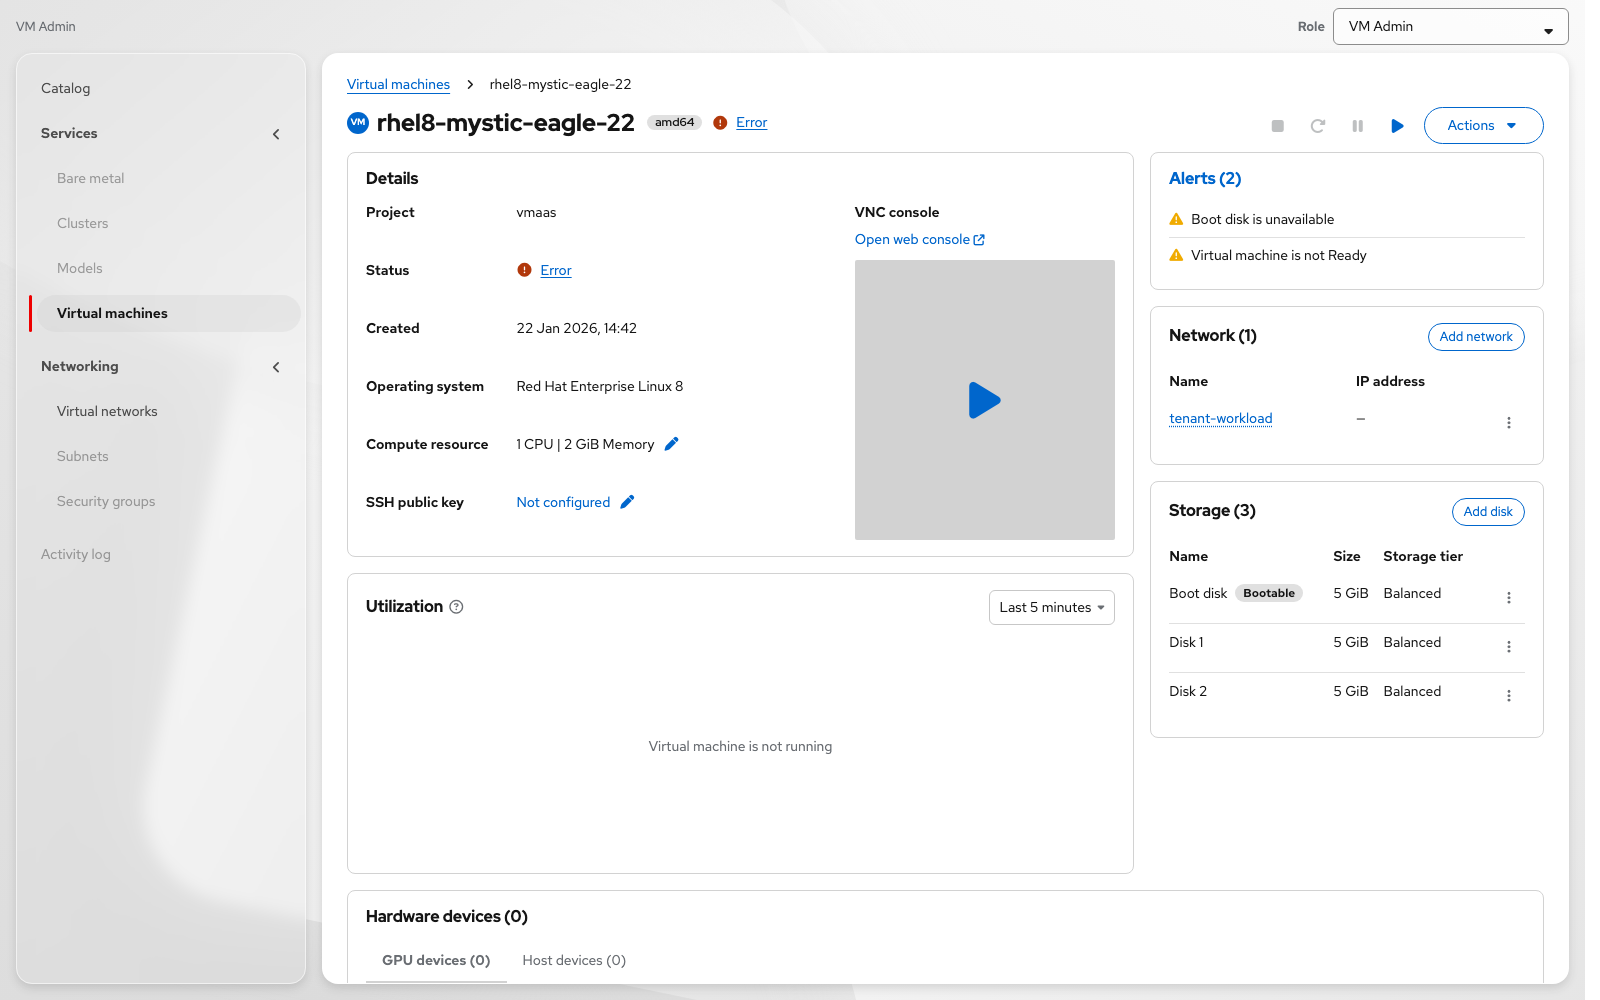
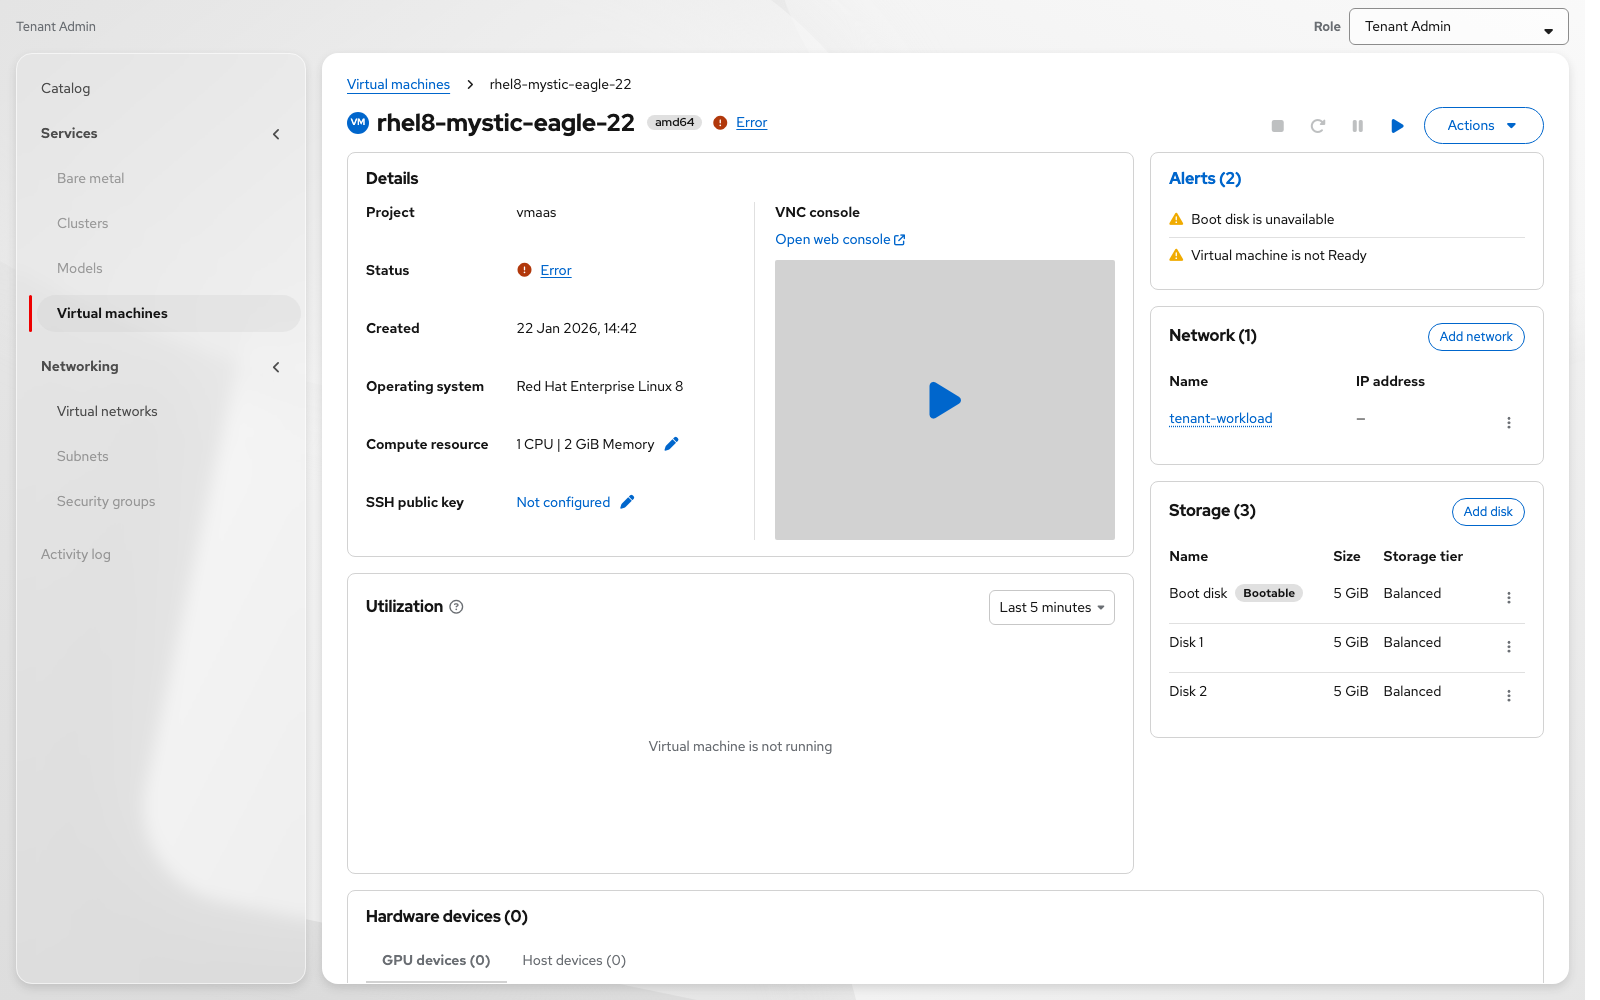
Add PF6 vertical divider in Details and refresh UX screenshots.
Keep Console in the Details card with visual separation; update Overview and Create list captures for the divider and Ethan filter row.

diff --git a/vmaas-create-vm-only.html b/vmaas-create-vm-only.html
@@ -517,10 +517,40 @@
     }
     .vm-card__title-row .vm-card__title { margin: 0; }
     .vm-details-grid {
-      display: grid; grid-template-columns: minmax(0, 1.35fr) minmax(200px, 0.75fr); gap: 20px;
+      display: flex;
       align-items: stretch;
+      gap: 0;
+      min-width: 0;
     }
-    @media (max-width: 800px) { .vm-details-grid { grid-template-columns: 1fr; } }
+    .vm-details-grid > .vm-dl {
+      flex: 1.35 1 0;
+      min-width: 0;
+      padding-inline-end: 20px;
+    }
+    .vm-details-grid > .pf-v6-c-divider.pf-m-vertical {
+      align-self: stretch;
+      flex: 0 0 auto;
+    }
+    .vm-details-grid > .vm-vnc {
+      flex: 0.75 1 200px;
+      min-width: 200px;
+      max-width: 360px;
+      padding-inline-start: 20px;
+    }
+    @media (max-width: 800px) {
+      .vm-details-grid {
+        flex-direction: column;
+      }
+      .vm-details-grid > .vm-dl,
+      .vm-details-grid > .vm-vnc {
+        flex: 1 1 auto;
+        max-width: none;
+        padding-inline: 0;
+      }
+      .vm-details-grid > .pf-v6-c-divider.pf-m-vertical {
+        display: none;
+      }
+    }
     .vm-dl {
       display: grid; grid-template-columns: max-content 1fr; gap: 10px 28px;
       margin: 0; font-size: 14px; align-items: baseline;
@@ -8640,6 +8670,7 @@
                           })()}`}
                       </dd>
                     </dl>
+                    <hr class="pf-v6-c-divider pf-m-vertical" aria-hidden="true" />
                     <div class="vm-vnc">
                       <h4 class="vm-vnc__title">VNC console</h4>
                       <button type="button" class="name-link vm-vnc__open">Open web console <i class="fa-solid fa-arrow-up-right-from-square" style="font-size:11px;" aria-hidden="true"></i></button>

diff --git a/vmaas-vm-details-overview-ux-doc.md b/vmaas-vm-details-overview-ux-doc.md
@@ -33,6 +33,7 @@ Document OSAC VMaaS **Virtual machine details Overview**: CNV-inspired card layo
 | **Operating system** | Show OS from create/template metadata when known. If unknown: **—** + *Guest agent not reporting*. |
 | **SSH** | *Configured* + pencil, or ***Not configured*** as a link (+ pencil) → edit modal. Windows: *Not applicable*. **Tenant User:** pencil / link disabled. |
 | **Compute** | **Compute resource** + edit pencil. **Tenant User:** pencil disabled. |
+| **Console** | VNC console stays in the Details card (right), separated from the DL by a PF6 **vertical divider** — same card/grid, clearer identity vs access. |
 | **Network / Storage** | Card **Add** + row kebab **Edit** / **Delete**. Delete disabled in-menu with reason (last network / boot disk). Terminology: **Network**. **Tenant User:** Add + row kebabs disabled. |
 | **Utilization** | Metrics only when status is **Running**. Otherwise: *Virtual machine is not running*. Time range shown as static “Last 5 minutes”. |
 | **After create** | Lands on this Overview with success toast. |
@@ -65,7 +66,7 @@ Figure: Overview — running
 | **Operating system** | Metadata OS, or soft empty (*Guest agent not reporting*) |
 | **Compute resource** | Summary + edit |
 | **SSH public key** | Configured / Not configured (link) + pencil |
-| **VNC console** | Open web console + preview. Opens full-page console (see **Web console** below). |
+| **VNC console** | Open web console + preview (right of DL). Separated by PF6 vertical divider within the same Details card. Opens full-page console (see **Web console** below). |
 
 Name lives in the page header (not duplicated in the DL), with arch badge (**amd64**).
 
